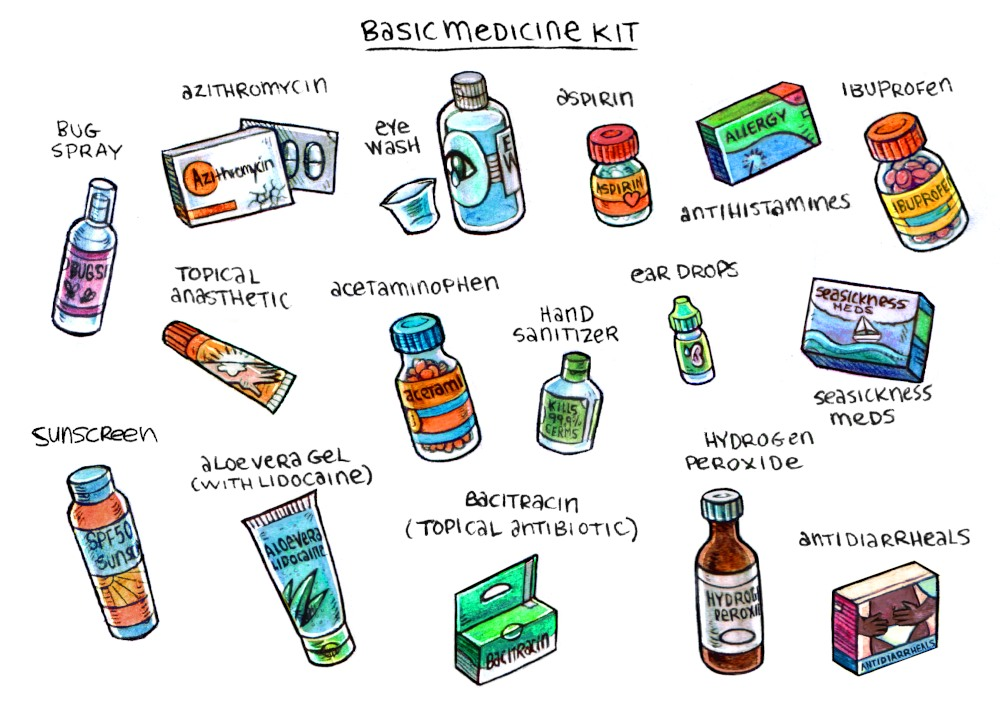
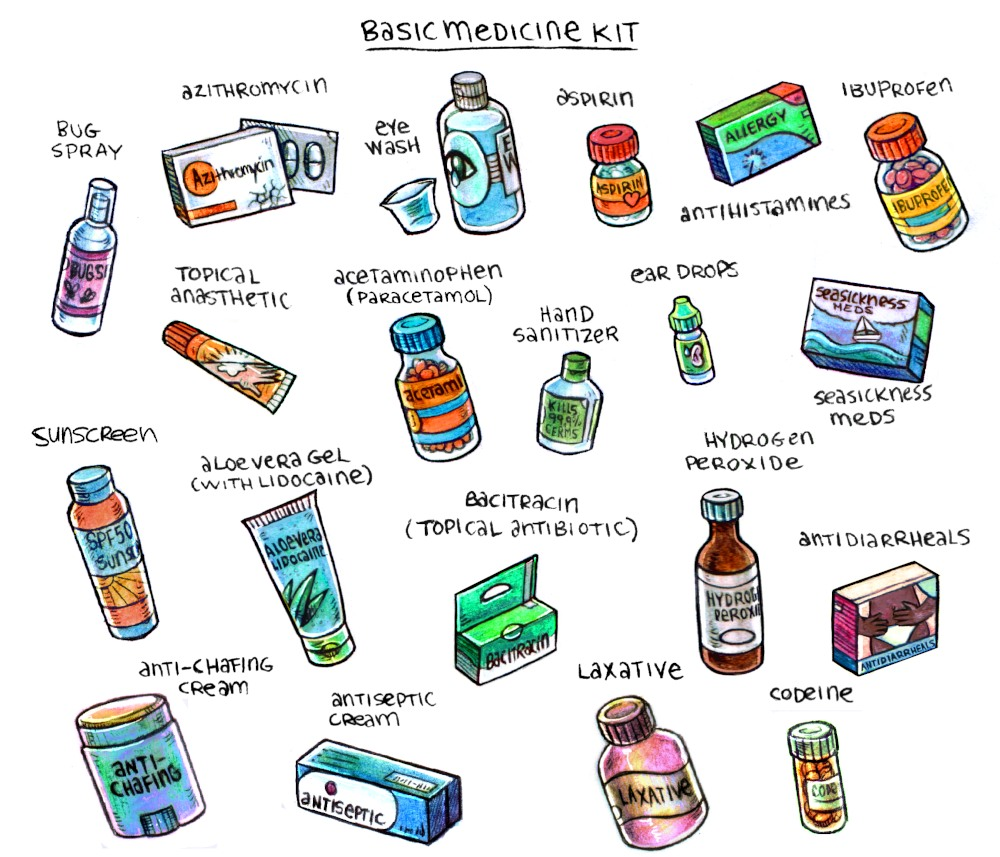
*

diff --git a/site/first_aid_kit.html b/site/first_aid_kit.html
@@ -34,20 +34,20 @@
     <p class='noprint'>Clearly mark the first-aid kit with a red cross<, and make sure those sharing the space with you know where it is. Keep a list inside of the items you use, and be sure to top off the kit every year or so.</p>
     <h2>Basic First-Aid Kit</h2>
     <div id='wrap'>
-        <img src='../media/content/first_aid_kit.jpg' alt='drawings of examples of items that basic first aid kits ought to contain: Sterile gauze pads, Medical tape, Roller bandages, Adhesive bandages, Scissors, Tweezers, Safety pins, Instant ice packs, Surgical or examination gloves, Flashlight, Antiseptic wipes, Pencil (and sharpie) and pad, Emergency blanket, Eye patch, Thermometer, and a first aid manual.' loading="lazy">
-        <a style='width: 18%;height: 15%;top: 10%;left: 61%;' href="../site/triangular_bandage.html"><span>Triangular Bandage</span></a>
+        <img src='../media/content/first_aid_kit.jpg' alt='drawings of examples of items that basic first aid kits ought to contain: Sterile gauze pads, Medical tape, Roller bandages, Adhesive bandages, Scissors, Tweezers, Safety pins, Instant ice packs, Surgical or examination gloves, Flashlight, Antiseptic wipes, Pencil (and sharpie) and pad, Emergency blanket, Eye patch, Thermometer, a first aid manual, burn dressings(with gel), hydration tablets/powder, surgical tape, petrolatum gauze, and hot water bottle' loading="lazy">
+        <a style='width: 18%;height: 14%;top: 4%;left: 61%;' href="../site/triangular_bandage.html"><span>Triangular Bandage</span></a>
     </div>
-    <p class='noprint'>Sterile gauze pads (dressings) in small and large squares to place over wounds, Medical tape, Roller and triangular bandages to hold dressings in place or to make an arm sling, Adhesive bandages in assorted sizes, Scissors, Tweezers, Safety pins, Instant ice packs, Disposable non-latex gloves(such as surgical or examination gloves), Flashlight(with extra batteries in a separate bag), Antiseptic wipes or soap, Pencil (and sharpie) and pad, Emergency blanket, Eye patch, Thermometer, and a first aid manual.</p>
+    <p class='noprint'>Sterile gauze pads (dressings) in small and large squares to place over wounds, Medical tape, Roller and triangular bandages to hold dressings in place or to make an arm sling, Adhesive bandages in assorted sizes, Scissors, Tweezers, Safety pins, Instant ice packs, Disposable non-latex gloves(such as surgical or examination gloves), Flashlight(with extra batteries in a separate bag), Antiseptic wipes or soap, Pencil (and sharpie) and pad, Emergency blanket, Eye patch, Thermometer, a first aid manual, burn dressings(with gel), hydration tablets/powder, surgical tape, petrolatum gauze, and hot water bottle.</p>
     <h2>Basic Medicine Kit</h2>
     <img src='../media/content/first_aid_04.jpg' alt=''>
     <p class='noprint'>Always read about a medicine before using it. If administering medicine to another person, ask about their allergies, and past medical history, last oral intake etc. Some medicines can cause severe allergic reactions, or may interact with other medicine.</p>
     <img src='../media/content/first_aid_05.jpg' alt=''>
     <p class='noprint'>Never administer anything to anyone without their consent.</p>
-    <img src='../media/content/medicine_kit.jpg' alt='drawings of examples of items that basic medicine kits ought to contain: Ibuprofen, Aspirin, Antihistamines, Seasickness meds, Ear drops, Eye wash, Bug spray, Hand sanitizer, Topical anesthetic, Azithromycin, Acetaminophen, Sunscreen (SPF 30), Aloe vera gel with lidocaine, Bacitracin (Topical ointment), Hydrogen peroxide, and anti-diarrheal.' loading="lazy">
-    <p class='noprint'>Ibuprofen, Aspirin, Antihistamines, Seasickness meds, Ear drops, Eye wash, Bug spray, Hand sanitizer, Topical anesthetic, Azithromycin, Acetaminophen, Sunscreen (SPF 30), Aloe vera gel with lidocaine, Bacitracin (Topical ointment), Hydrogen peroxide, and anti-diarrheal.</p>
+    <img src='../media/content/medicine_kit.jpg' alt='drawings of examples of items that basic medicine kits ought to contain: Ibuprofen, Aspirin, Antihistamines, Seasickness meds, Ear drops, Eye wash, Bug spray, Hand sanitizer, Topical anesthetic, Azithromycin, Acetaminophen(paracetamol), Sunscreen (SPF 30), Aloe vera gel with lidocaine, Bacitracin (Topical ointment), Hydrogen peroxide, anti-diarrheals, laxative, codeine, anti-chafing cream, and antiseptic cream' loading="lazy">
+    <p class='noprint'>Ibuprofen, Aspirin, Antihistamines, Seasickness meds, Ear drops, Eye wash, Bug spray, Hand sanitizer, Topical anesthetic, Azithromycin, Acetaminophen, Sunscreen (SPF 30), Aloe vera gel with lidocaine, Bacitracin (Topical ointment), Hydrogen peroxide, anti-diarrheals, laxative, codeine, anti-chafing cream, and antiseptic cream.</p>
     <h2>Advanced add-ons to a medical kit</h2>
-    <img src='../media/content/addon_kit.jpg' alt='drawings of useful add ons for an advanced first aid kit: Hot water bottle, Staple gun, Epinephrine, Tourniquet, Multitool, Compression bandage, Reinforced sterile skin closures, CPR pocket mask, Povidone iodine surgical scrubs, Sterile sutures thread with needle, an emergency(israeli) bandage, and an emergency dental kit' loading="lazy">
-    <p class='noprint'>Hot water bottle, Staple gun, Epinephrine, Tourniquet, Multitool, Compression bandage, Reinforced sterile skin closures, CPR pocket mask, Povidone iodine surgical scrubs, Sterile sutures thread with needle, an emergency(israeli) bandage, and an emergency dental kit.</p>
+    <img src='../media/content/addon_kit.jpg' alt='drawings of useful add ons for an advanced first aid kit: Staple gun, Surgical scalpel (with sterile blades), Epinephrine, Tourniquet, Multitool, Compression bandage, Reinforced sterile skin closures, CPR pocket mask, Povidone iodine surgical scrubs, Sterile sutures thread with needle, an emergency(israeli) bandage, an emergency dental kit, and hemostatic dressings(with coagulant).' loading="lazy">
+    <p class='noprint'>Staple gun, Epinephrine, Tourniquet, Multitool, Compression bandage, Reinforced sterile skin closures, CPR pocket mask, Povidone iodine surgical scrubs, Sterile sutures thread with needle, an emergency(israeli) bandage, an emergency dental kit,  and hemostatic dressings(with coagulant)</p>
 </main>
 <footer>
     <div id='wrapfooter'>
